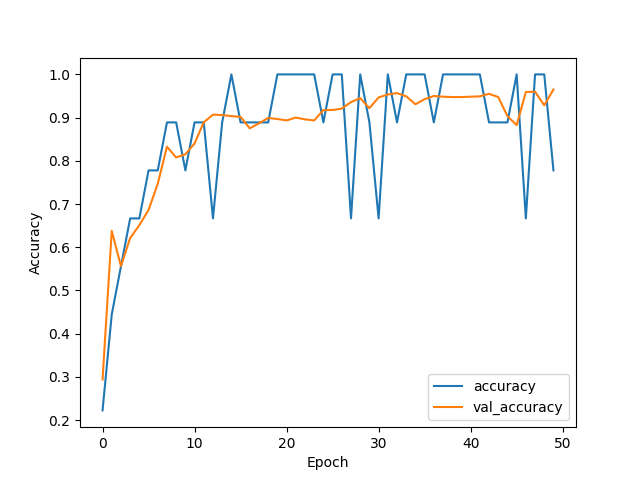
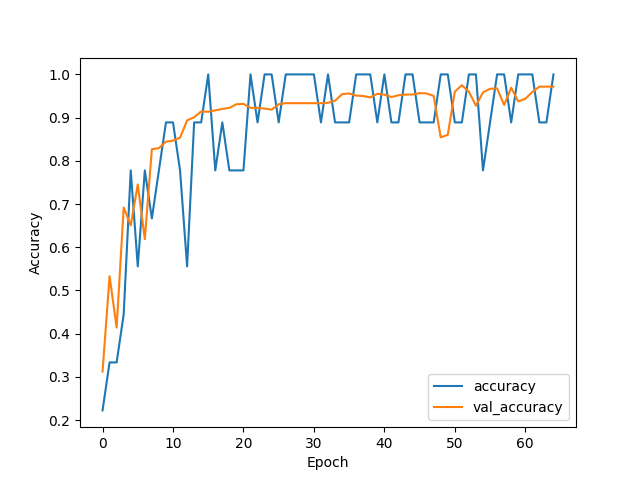
option to upload local file

diff --git a/main.py b/main.py
@@ -1,3 +1,4 @@
+from distutils.cmd import Command
 from email.headerregistry import BaseHeader
 from logging import root
 import matplotlib
@@ -10,8 +11,10 @@ import subprocess
 import pytube
 import json
 import jams
+from mutagen.wave import WAVE
 from tkinter import * 
 from tkinter.filedialog import asksaveasfile
+from tkinter.filedialog import askopenfilename
 from just_playback import Playback
 from tqdm import tqdm
 from moviepy.editor import *
@@ -27,17 +30,29 @@ def downloadSongFromYoutube(url):
         print(yt.length)
         vids= yt.streams.all()
         downloadDir = "./tempSong"
-        default_filename = vids[2].default_filename.replace(" ", "_")
+        default_filename = vids[1].default_filename.replace(" ", "_").replace("(", "").replace(")", "")
         default_filename = default_filename.replace("&", "and")
-        vids[2].download(downloadDir, default_filename)
+        vids[1].download(downloadDir, default_filename)
         print(default_filename)
         #convert to wav
-        command = "ffmpeg -i " + downloadDir + "/" + default_filename + " -ab 160k -ac 2 -ar 44100 -vn " + downloadDir + "/songTemp.wav"
+        command = "ffmpeg -i " + downloadDir + "/" + default_filename + " -ac 2 -f wav " + downloadDir + "/songTemp.wav"
         subprocess.call(command, shell=True)
         os.remove(downloadDir + "/" + default_filename)
-        return yt.length, vids[2].default_filename[:-4]
+        return yt.length, vids[1].default_filename[:-4]
     except Exception as e:
         print("Can't download or convert video")
+
+def convertLocalFile():
+    if(not os.path.exists("./tempSong")):
+        os.mkdir("./tempSong")
+    root = Tk()
+    root.geometry('200x150')
+    file = askopenfilename(filetypes= (("mp3","*.mp3"), ("mp4","*.mp4"), ("wav","*.wav")))
+    root.destroy()
+    command = 'ffmpeg -i "' + file + '" ./tempSong/songTemp.wav'
+    subprocess.call(command, shell=True)
+    audio = WAVE("./tempSong/songTemp.wav")
+    return audio.info.length, os.path.basename(file)
 
 def generatePartChromagrams(chroma, beatList, savePath, endSecond):
     if(not os.path.exists(savePath)):
@@ -103,6 +118,7 @@ def saveFileChords(beats, chords, originalChords, score, title, url, duration):
     root.geometry('200x150')
     files = [('JSON', '*.json'), ('jams', '*.jams')]
     file = asksaveasfile(filetypes = files, defaultextension = files)
+    root.destroy()
     if(file == None):
         return
     if file.name[-4:] == "json":
@@ -124,7 +140,7 @@ def saveFileChords(beats, chords, originalChords, score, title, url, duration):
         jam.annotations.append(ann)
         jam.save(file.name)
 
-def deploySong(beats, chords, title):
+def playSong(beats, chords, title):
     beatIndex = 0
     buffer = ["--", "--", "--", "--"]
     for index, e in enumerate(buffer):
@@ -156,9 +172,18 @@ def main():
     if(os.path.exists(pathImages)):
         shutil.rmtree(pathImages)
 
-    print("Downloading and converting link")
-    url = input("Paste youtube link: \n")
-    songLenght , title = downloadSongFromYoutube(url)
+    print("===================")
+    print("YouTube Url: 1")
+    print("Local File:  2")
+    fileSrc = input("Select an option: ")
+    if fileSrc == "1":
+        url = input("Paste youtube link: ")
+        songLenght , title = downloadSongFromYoutube(url)
+    elif fileSrc == "2":
+        songLenght , title = convertLocalFile()
+    else:
+        print("Exit")
+        return
 
     print("Generating beats")
     proc = madmom.features.beats.DBNBeatTrackingProcessor(fps=100)
@@ -175,9 +200,22 @@ def main():
     print("Get chords from model")
     chords, scores, originalChords = getChords(beat_times)
 
-    desition = input("Do you want to save chords in a file: [Y/N] ")
-    if(desition == "y" or desition == "Y"):
-        saveFileChords(beat_times, chords, originalChords, scores, title, url, songLenght)
-    deploySong(beat_times, chords, title)
+    loopMenu = True
+    while loopMenu:
+        print("===================")
+        print("Save chords: 1")
+        print("Play song:  2")
+        print("Exit:       3")
+        
+        menuOption = input("Select an option: ")
+        if(menuOption == "1"):
+            saveFileChords(beat_times, chords, originalChords, scores, title, url, songLenght)
+        elif(menuOption == "2"):
+            playSong(beat_times, chords, title)
+        elif(menuOption == "3"):
+            print("Exit")
+            loopMenu = False
+        else:
+            print("Option " + menuOption + " not recogniced")
 
 main()

diff --git a/generateModel.py b/generateModel.py
@@ -37,7 +37,7 @@ model.compile(optimizer='adam',
               loss=tf.keras.losses.SparseCategoricalCrossentropy(from_logits=True),
               metrics=['accuracy'])
 
-history = model.fit(train_dataset, steps_per_epoch=3, epochs=50, validation_data=test_dataset)
+history = model.fit(train_dataset, steps_per_epoch=3, epochs=65, validation_data=test_dataset)
 
 if(not os.path.exists("./saved_model")):
     os.mkdir("./saved_model")

diff --git a/README.md b/README.md
@@ -10,6 +10,7 @@
 - opencv-python
 - pytube
 - just_playback
+- mutagen
 
 To convert video to wav file need [ffmpeg](https://ffmpeg.org/download.html).
 
